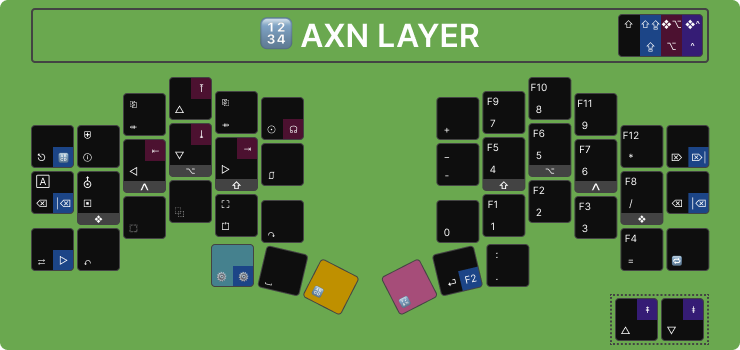
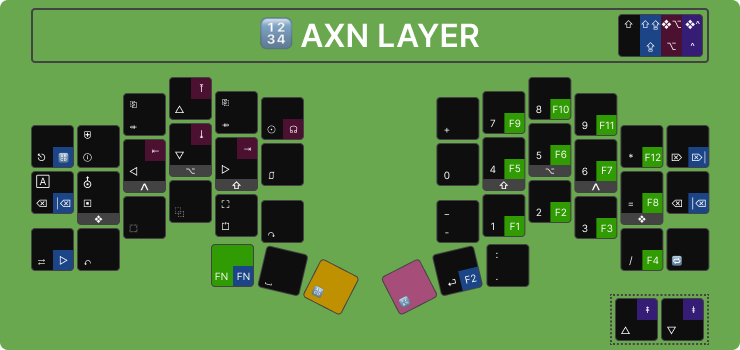
change fn keys

diff --git a/CHANGELOG.md b/CHANGELOG.md
@@ -1,5 +1,10 @@
 # CHANGELOG
 
+## 3.0.0
+
+- Move `0` and `=` keys to home row position
+- Create a `FN` sub-layer of `AXN` layer to avoid collisions with another shortcuts
+
 ## 2.2.0
 
 - Replace the PrintScreen action with PowerToys shortcuts
